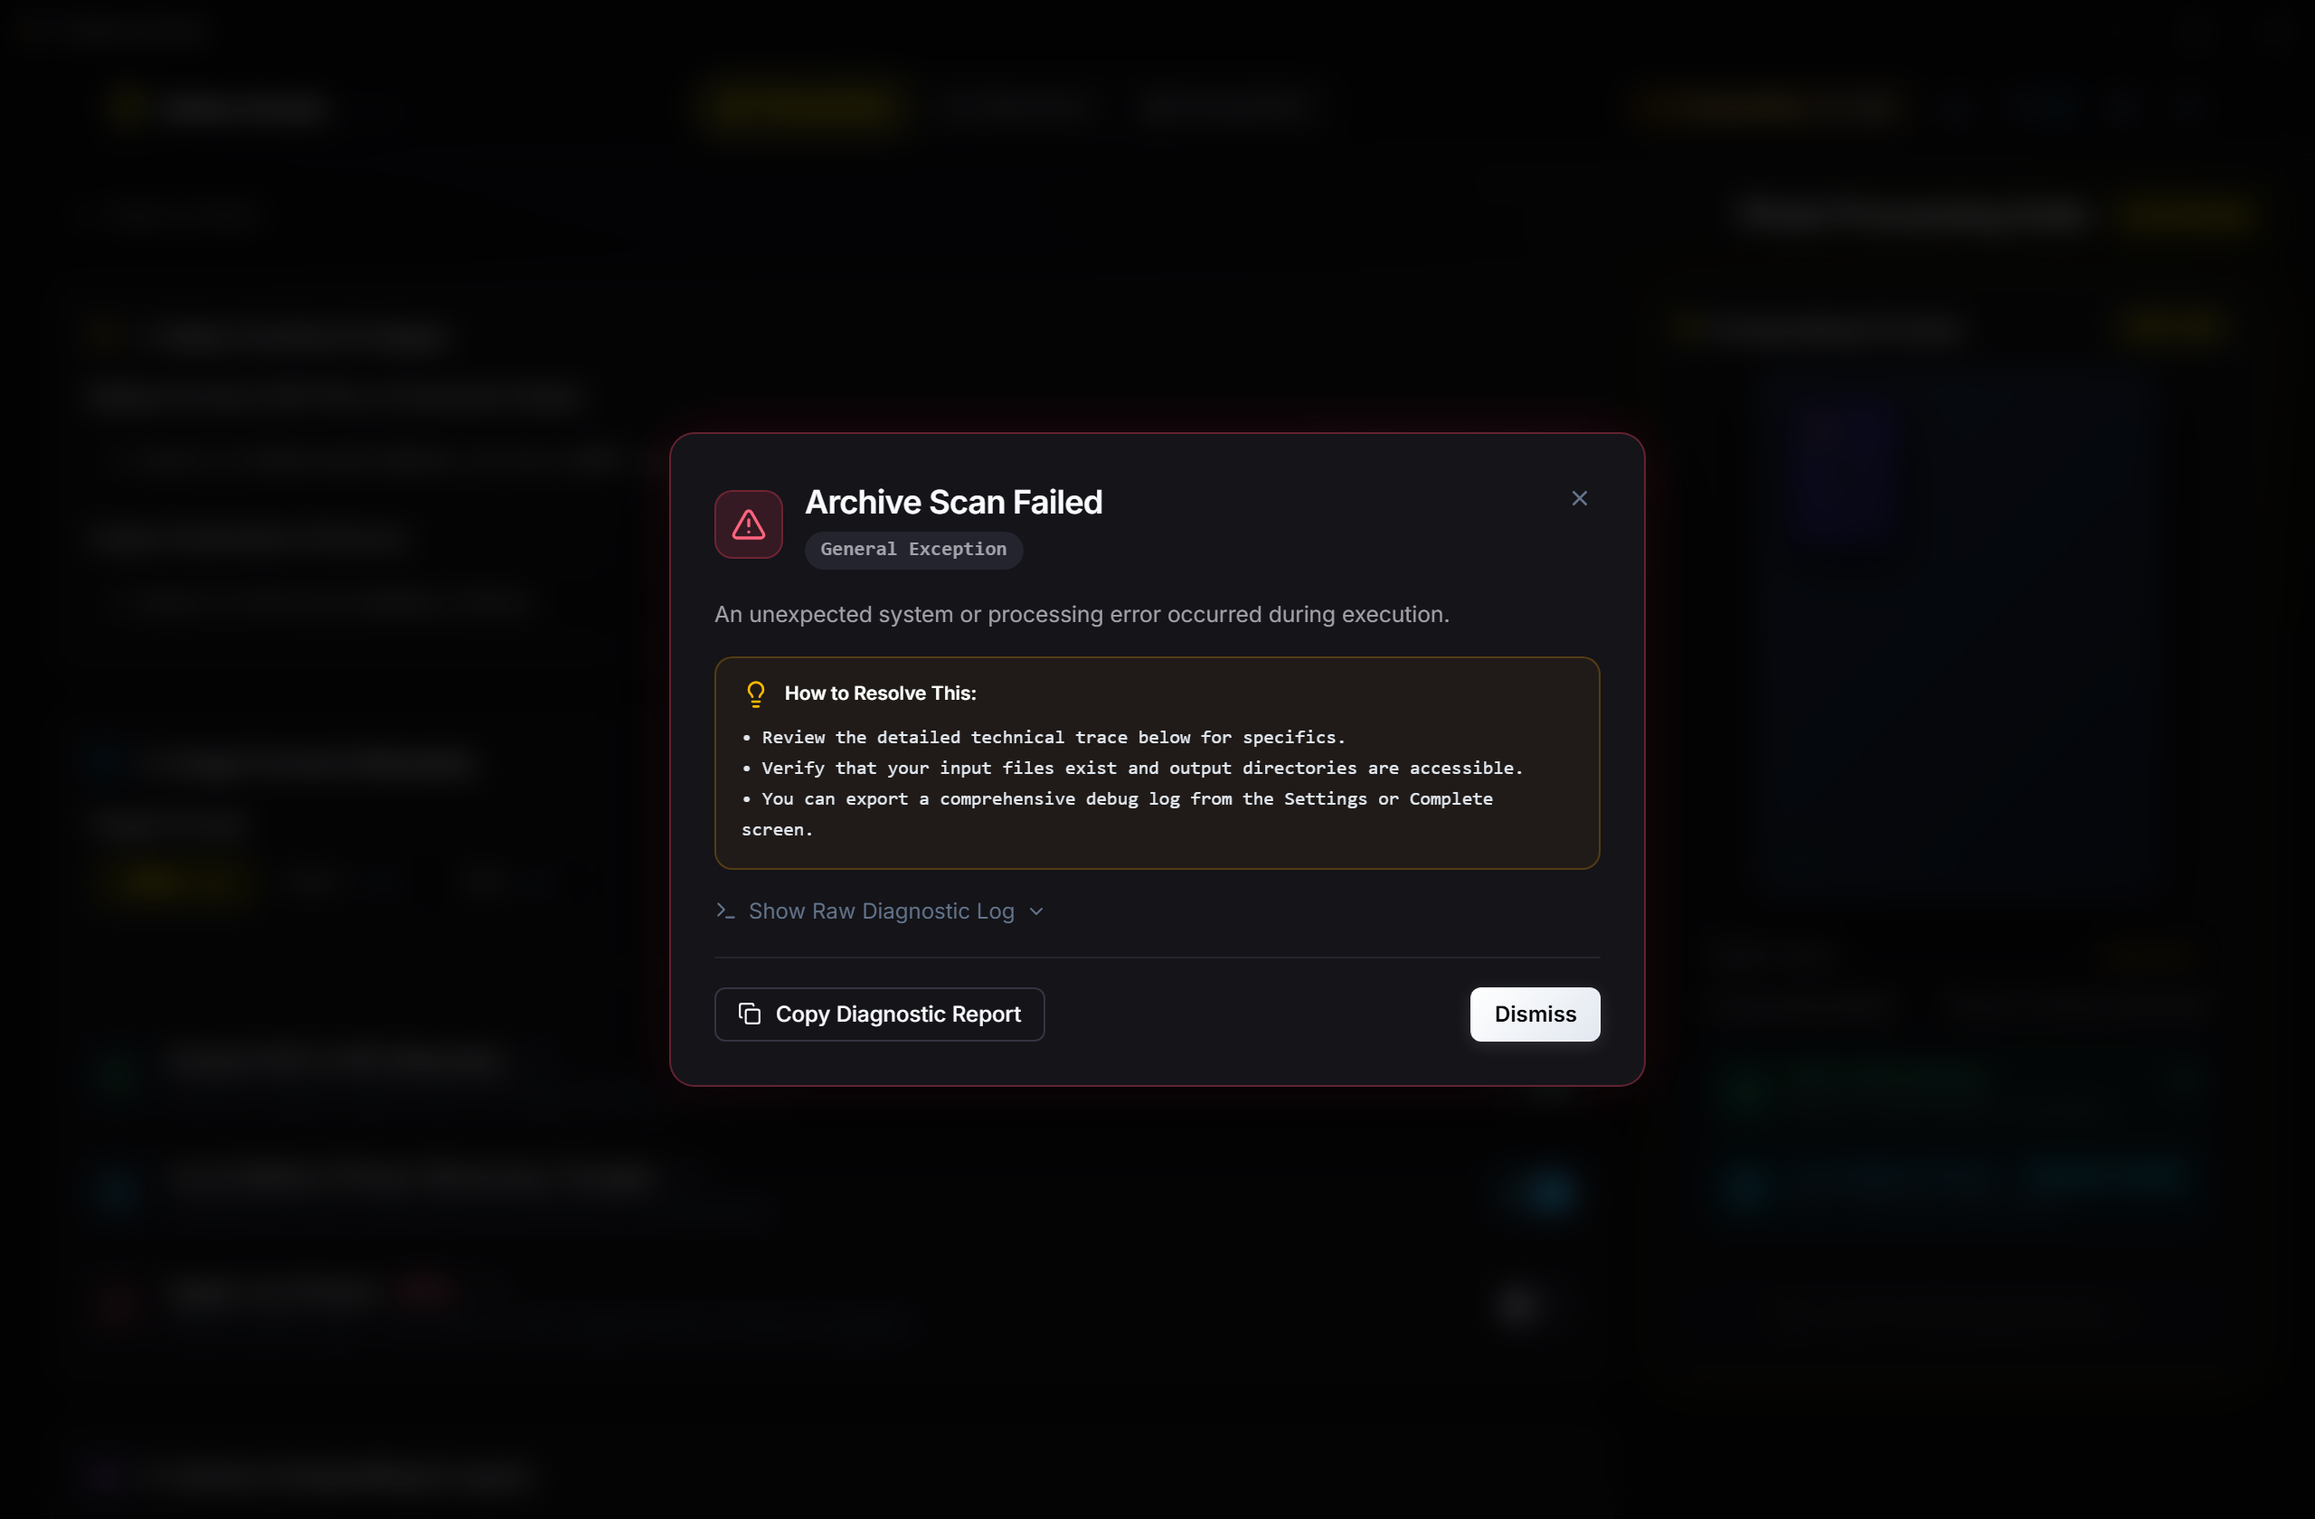
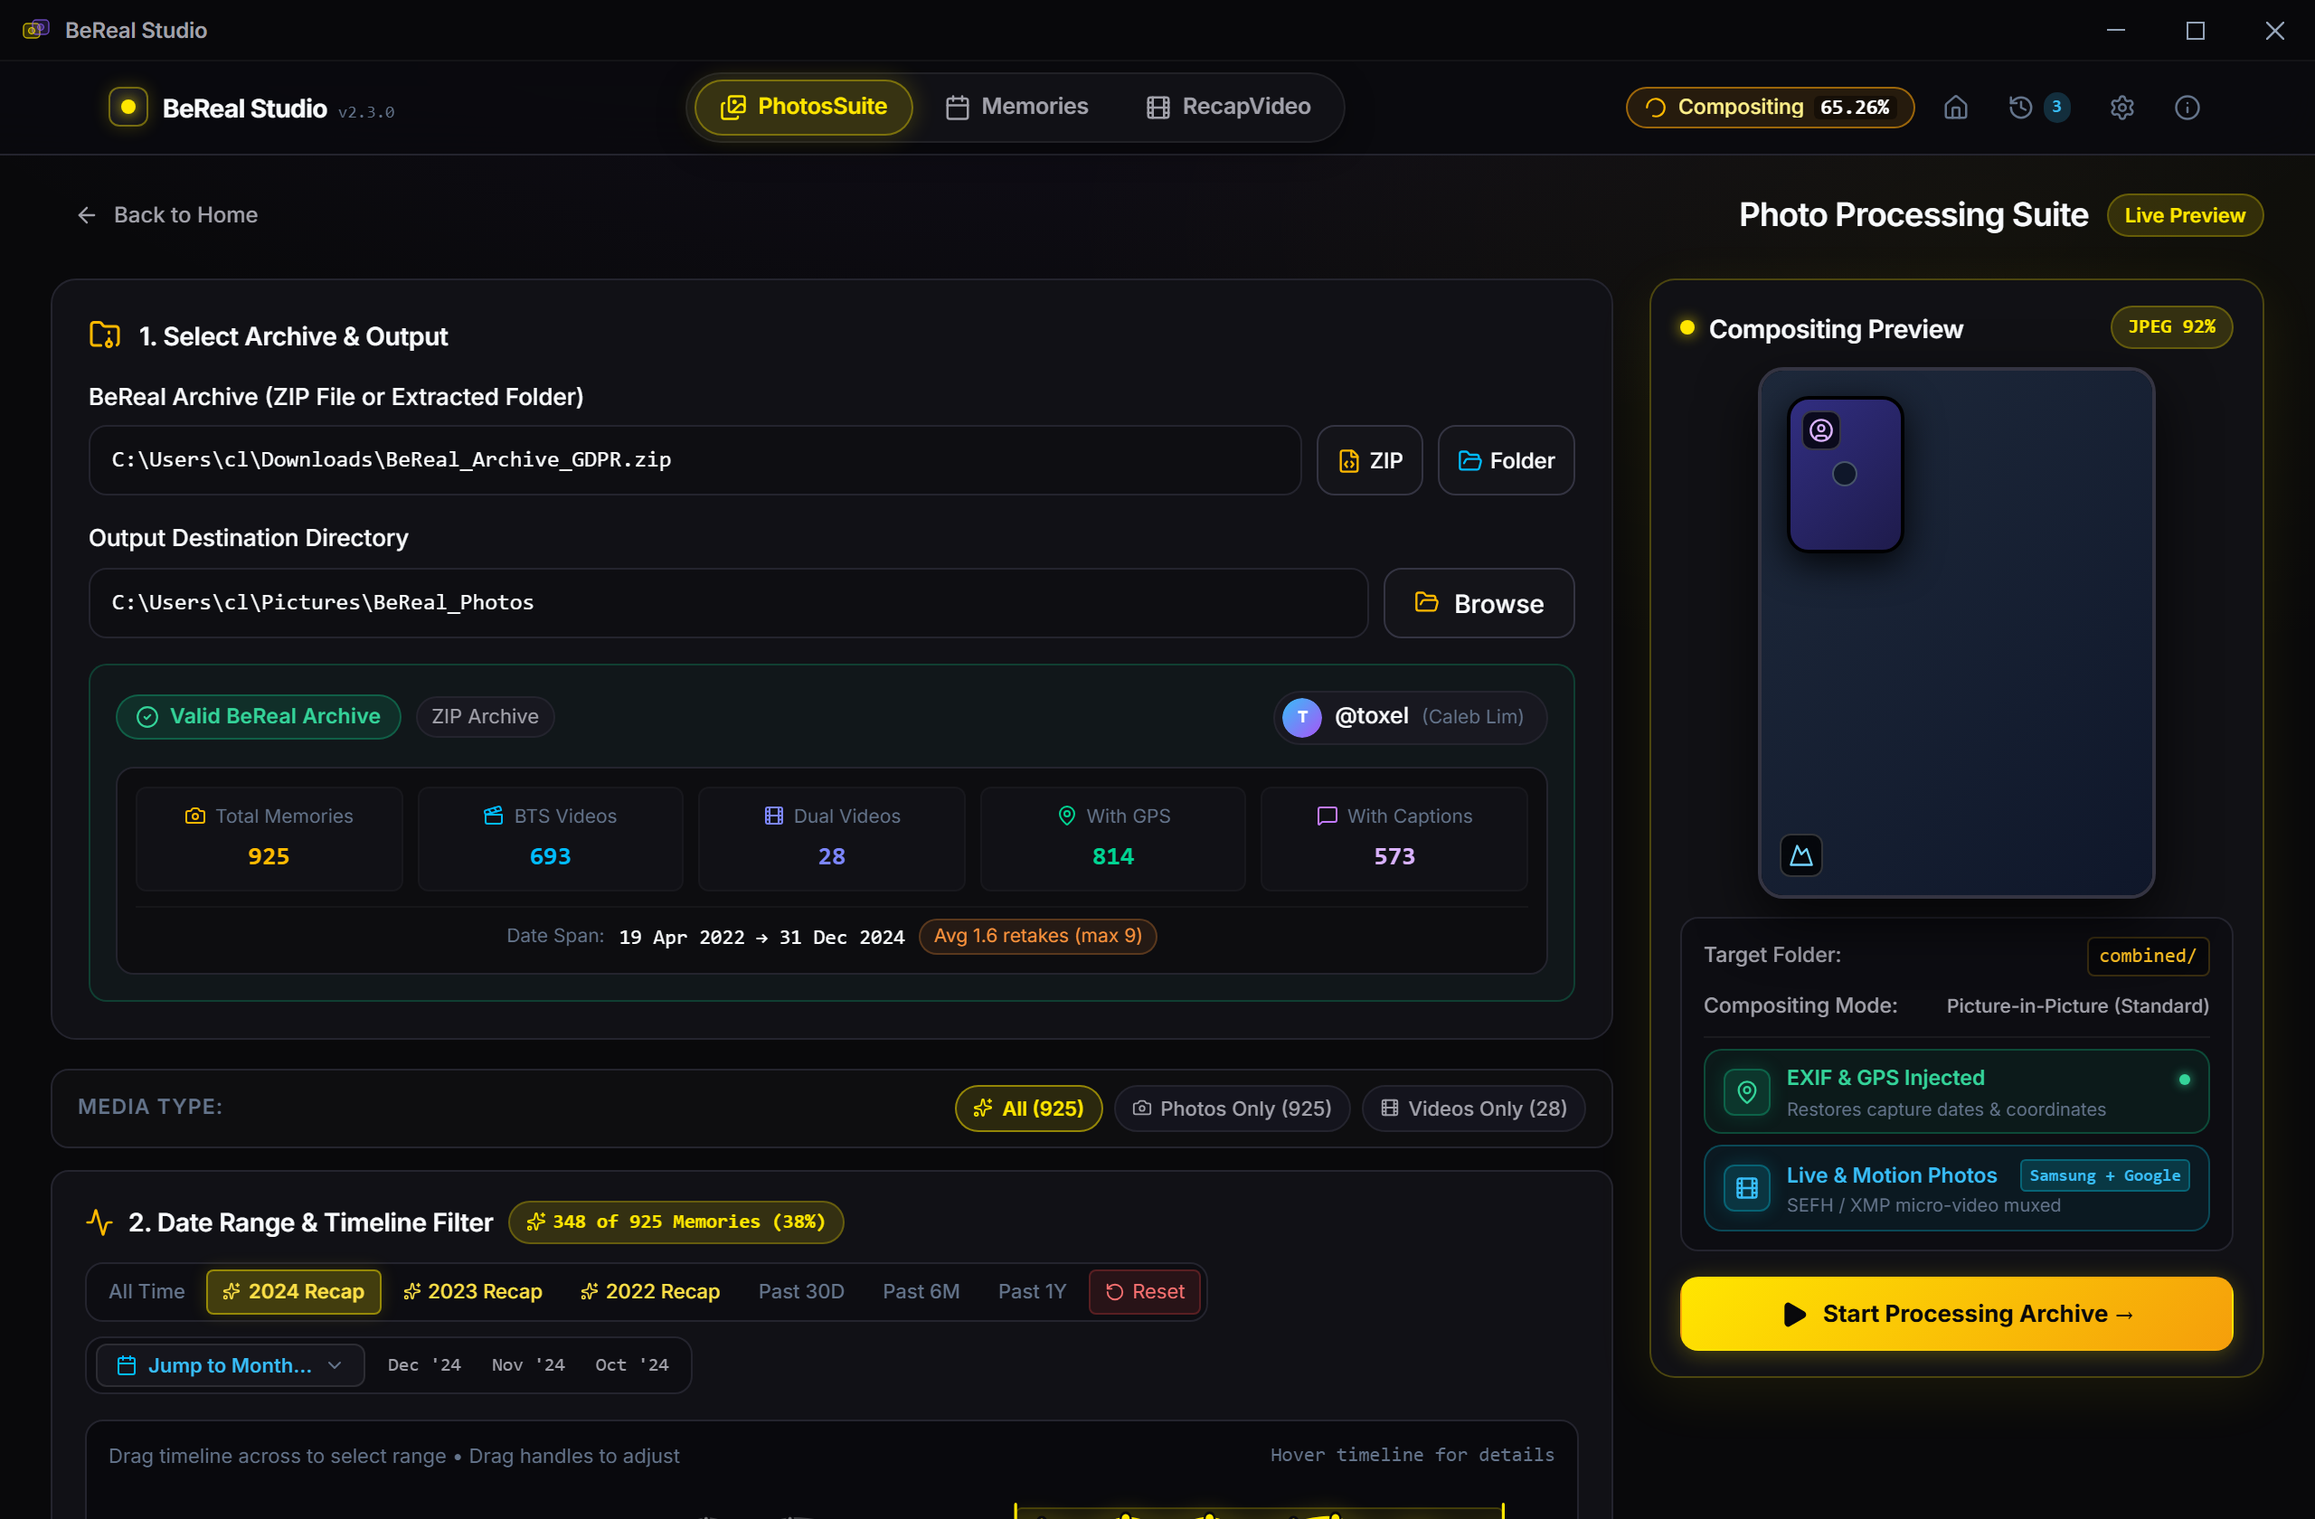
docs(screenshots): fix demo scan error in photo toolkit and organize release notes
- Overview: Fix automated screenshot mock state handling so photo toolkit renders active configuration instead of scan error, and organize release notes into docs/releases/ with root CHANGELOG.md.
- Documentation:
  - Structured release notes under docs/releases/ (v2.3.0.md, v2.0.0.md) and created root CHANGELOG.md.
  - Updated .github/workflows/release.yml to locate release notes in docs/releases/.
  - Re-captured clean, high-DPI screenshots without any error states.

diff --git a/scripts/capture_screenshots.js b/scripts/capture_screenshots.js
@@ -9,6 +9,7 @@
 import fs from 'fs';
 import path from 'path';
 import { fileURLToPath } from 'url';
+import { spawn } from 'child_process';
 import puppeteer from 'puppeteer-core';
 
 const __dirname = path.dirname(fileURLToPath(import.meta.url));
@@ -41,11 +42,44 @@ function findBrowserBinary() {
   return 'msedge';
 }
 
+async function isServerRunning(url) {
+  try {
+    const res = await fetch(url, { method: 'GET' });
+    return res.status === 200 || res.status === 304;
+  } catch {
+    return false;
+  }
+}
+
 async function main() {
   console.log('\n📸 [BeReal Studio] Launching Automated Screenshot Capture Suite...\n');
 
   if (!fs.existsSync(SCREENSHOT_DIR)) {
     fs.mkdirSync(SCREENSHOT_DIR, { recursive: true });
+  }
+
+  let serverProcess = null;
+  const baseUrl = 'http://localhost:1420';
+
+  if (!(await isServerRunning(baseUrl))) {
+    console.log('⚡ Starting local Vite dev server on port 1420...');
+    const isWindows = process.platform === 'win32';
+    const bunCmd = isWindows ? 'bun.cmd' : 'bun';
+    serverProcess = spawn(bunCmd, ['run', 'dev'], {
+      cwd: ROOT_DIR,
+      stdio: 'pipe',
+      shell: isWindows,
+    });
+
+    let attempts = 0;
+    while (attempts < 30) {
+      await new Promise((r) => setTimeout(r, 1000));
+      attempts++;
+      if (await isServerRunning(baseUrl)) {
+        console.log('✅ Local dev server ready on http://localhost:1420\n');
+        break;
+      }
+    }
   }
 
   const executablePath = findBrowserBinary();
@@ -74,11 +108,11 @@ async function main() {
     console.log(`[${i + 1}/${VIEWS.length}] Capturing ${item.label} (${item.name})...`);
 
     try {
-      await page.goto(targetUrl, { waitUntil: 'networkidle0', timeout: 15000 });
+      await page.goto(targetUrl, { waitUntil: 'networkidle0', timeout: 20000 });
 
       // Wait for app header and view transition to complete
-      await page.waitForSelector('.app-header', { timeout: 5000 });
-      await new Promise((res) => setTimeout(res, 800));
+      await page.waitForSelector('.app-header', { timeout: 8000 });
+      await new Promise((res) => setTimeout(res, 1800));
 
       await page.screenshot({ path: outPath, type: 'png' });
 
@@ -90,6 +124,16 @@ async function main() {
   }
 
   await browser.close();
+
+  if (serverProcess) {
+    console.log('🛑 Shutting down spawned Vite dev server...');
+    if (process.platform === 'win32') {
+      spawn('taskkill', ['/pid', serverProcess.pid.toString(), '/f', '/t']);
+    } else {
+      serverProcess.kill('SIGTERM');
+    }
+  }
+
   console.log(`\n🎉 All ${VIEWS.length} showcase screenshots successfully captured into docs/screenshots/!\n`);
 }
 

diff --git a/src/views/ToolkitConfig.svelte b/src/views/ToolkitConfig.svelte
@@ -20,6 +20,7 @@
     errorActiveJob,
     recordActivity,
   } from '$lib/stores';
+  import { isDemoExplicitlyRequested } from '$lib/devMode';
   import {
     scanArchive,
     startToolkit,
@@ -215,7 +216,11 @@
       activeScanPath = '';
       return;
     }
-    // Skip re-scan if this path was already successfully scanned into memory
+    // Skip re-scan if in demo mode or if already scanned
+    if (isDemoExplicitlyRequested() && $archiveMetadata && $archiveMetadata.isValid && $archiveMetadata.entryCount > 0) {
+      activeScanPath = path;
+      return;
+    }
     if (!force && path === activeScanPath && $archiveMetadata && $archiveMetadata.isValid && $archiveMetadata.entryCount > 0) {
       return;
     }
@@ -243,13 +248,17 @@
   }
 
   onMount(() => {
+    if (isDemoExplicitlyRequested()) {
+      if ($toolkitConfig.inputPath) activeScanPath = $toolkitConfig.inputPath;
+      return;
+    }
     if ($toolkitConfig.inputPath) {
       handleArchiveChange($toolkitConfig.inputPath);
     }
   });
 
   let prevInputPath = '';
-  $: if ($toolkitConfig.inputPath !== prevInputPath || (!$archiveMetadata && $toolkitConfig.inputPath)) {
+  $: if (!isDemoExplicitlyRequested() && ($toolkitConfig.inputPath !== prevInputPath || (!$archiveMetadata && $toolkitConfig.inputPath))) {
     prevInputPath = $toolkitConfig.inputPath;
     if (debounceTimer) clearTimeout(debounceTimer);
     if (!$toolkitConfig.inputPath || $toolkitConfig.inputPath.trim().length === 0) {

diff --git a/src/lib/devMode.ts b/src/lib/devMode.ts
@@ -10,7 +10,7 @@ import {
   defaultToolkitConfig,
   defaultRecapperConfig,
 } from './stores';
-import { explorerData, calendarCurrentMonth } from './memoriesStore';
+import { explorerData, calendarCurrentMonth, memoriesLoadError, isLoadingMemories } from './memoriesStore';
 import type { ArchiveInfo, MonthCount, ActiveJob, ActivityRecord, ExplorerMemory } from './types';
 
 export const isDev = import.meta.env.DEV;
@@ -354,6 +354,8 @@ export function loadDemoExplorer() {
     },
   ];
 
+  memoriesLoadError.set(null);
+  isLoadingMemories.set(false);
   explorerData.set({
     memories: demoMemories,
     totalCount: demoMemories.length,

diff --git a/src/views/MemoriesView.svelte b/src/views/MemoriesView.svelte
@@ -24,10 +24,14 @@
   import RefreshCw from 'lucide-svelte/icons/refresh-cw';
   import Sparkles from 'lucide-svelte/icons/sparkles';
   import Loader2 from 'lucide-svelte/icons/loader-circle';
+  import { isDemoExplicitlyRequested } from '$lib/devMode';
 
   let selectedPathInput = $lastScannedArchivePath || '';
 
   onMount(() => {
+    if (isDemoExplicitlyRequested()) {
+      return;
+    }
     // Auto-load if we have an archive path and haven't loaded yet
     if ($lastScannedArchivePath && !$explorerData && !$isLoadingMemories) {
       loadMemories($lastScannedArchivePath);

diff --git a/docs/releases/v2.0.0.md b/docs/releases/v2.0.0.md
@@ -1,0 +1,75 @@
+# 🚀 BeReal Studio v2.0.0 — The Memories Explorer Release
+
+**BeReal Studio v2.0.0** is a major milestone release that introduces the **Native BeReal Memories & Calendar Explorer**, bringing the authentic, fluid mobile BeReal browsing and post exploration experience directly to your desktop alongside the Photo Toolkit and Music Recapper.
+
+---
+
+## 🌟 Key Highlights
+
+```
+┌────────────────────────────────────────────────────────────────────────────────────────┐
+│  📸 Native BeReal Memories Grid & Calendar Explorer with Mobile-Authentic UI           │
+│  📱 Continuous Vertical Infinite-Scroll Feed with Sticky Header & Auto-Jump            │
+│  🤳 Interactive Dual-Camera Frame, Click-to-Swap, Movable PIP & Corner Snap Hotspots   │
+│  🔍 Instant Multi-Dimensional Filtering (Location, BTS Clips, Captions, Retakes)       │
+│  ⚡ Sub-10ms Rayon Multi-Core Processing & Offline Spatial Reverse Geocoder Index      │
+└────────────────────────────────────────────────────────────────────────────────────────┘
+```
+
+---
+
+## 📋 Comprehensive Changelog & Feature Breakdown
+
+### 📸 1. Native Memories & Calendar Explorer
+- **Mobile-Identical Dark UI**: An immersive experience matching the authentic BeReal app design.
+- **Segmented View Switcher**: Fluid toggle between `[ Memories ]` and `[ Calendar ]`.
+- **Memories Grid**: Responsive multi-column card grid with day overlays (`19`, `20`, `Today`), retake badges `(2)`, and hover elevations.
+- **Monthly Calendar Matrix**: 7-column calendar (Mon–Sun) with month navigation (`<` / `>`) and active memory photo cells.
+- **Persistent Directory Memory**: Remembers and auto-loads your previously scanned GDPR archives across app launches.
+
+### 📱 2. Continuous Vertical Infinite-Scroll Feed
+- **Authentic Feed View**: Clicking any memory card seamlessly opens a continuous, smooth vertical scroll feed of your entire archive.
+- **Instant Auto-Scroll**: Jumps directly to the tapped post while allowing uninterrupted scrolling up and down through earlier and newer memories.
+- **Dynamic Sticky Top Bar**: Tracks and displays the active visible memory date and post count (e.g. `18 August 2024 • 14 of 420`) as you scroll.
+- **Detailed Metadata**: Displays user avatar, username (`toxel`), full name, post time, relative date, late status, retakes, and captions.
+
+### 🤳 3. Interactive Dual-Camera Frame & Movable PIP
+- **Click-to-Swap**: Clicking the selfie inset instantly swaps perspective between front and back cameras with animated transitions.
+- **Movable / Draggable PIP**: Click and drag the selfie picture-in-picture box anywhere on the photo frame with bounds protection.
+- **4-Corner Snap Hotspots**: Instant corner snap controls to cycle between `Top-Left`, `Top-Right`, `Bottom-Right`, and `Bottom-Left`.
+- **Integrated BTS Micro-Video Player**: Plays live BTS micro-videos inline when present in the archive.
+
+### 🔍 4. Multi-Dimensional Search & Filtering
+- **Live Instant Search**: Search captions, dates, and reverse-geocoded cities/countries.
+- **Quick Filter Chips**:
+  - `📍 Location` (Posts with GPS tags)
+  - `🎬 BTS Clips` (Posts with live BTS video clips)
+  - `💬 Captions` (Posts with text captions)
+  - `🔄 Retakes Only` (Posts with retakes > 0)
+- **Advanced Drawers**: Instant dropdown filtering by Year, Month, City, and Country.
+
+### 💾 5. Contextual Actions & Single-Memory Exports
+- **Three-Dot Action Menu**:
+  - 📁 *Reveal in File Explorer*: Opens the raw image on disk.
+  - 🖼 *Save Combined Photo (PIP)*: Exports a high-res Picture-in-Picture composite.
+  - ↔ *Save Side-by-Side Photo*: Exports a high-res side-by-side composite.
+  - 📷 *Save Main Camera Only* / 🤳 *Save Selfie Camera Only*.
+  - 📋 *Copy Details*: Quick actions to copy caption, formatted timestamp, or GPS coordinates.
+
+### ⚡ 6. High-Performance Parallel Engine
+- **Rayon Multi-Core Processing**: Parses, formats, and reverse-geocodes 1,000+ posts in under **10 milliseconds**.
+- **O(1) Media File Indexing**: Instant filename mapping supporting all BeReal GDPR folder variations (`Photos/.../post/`, `/Photos/.../bereal/`, flat folders).
+- **Offline Spatial Reverse Geocoder**: In-memory GeoNames spatial index for instant, offline city/country resolution with zero network pauses.
+- **Tauri v2 Asset Protocol & Base64 Fallback**: 100% reliable image and video rendering across all operating systems.
+
+---
+
+## 📦 Downloads & Platform Installers
+
+| Platform | Format / File | Architecture | Description |
+| :--- | :--- | :--- | :--- |
+| **Windows** | `.msi` | x64 | Windows Installer Package |
+| **Windows** | `.exe` | x64 | NSIS Standalone Setup |
+| **macOS** | `.dmg` | Universal | Apple Silicon (M1/M2/M3/M4) & Intel (x86_64) |
+| **Linux** | `.AppImage` | x64 | Standalone Universal Linux Binary |
+| **Linux** | `.deb` | x64 | Debian / Ubuntu Package |

diff --git a/CHANGELOG.md b/CHANGELOG.md
@@ -1,0 +1,32 @@
+# 📜 BeReal Studio — Changelog & Release Archive
+
+All notable changes to **BeReal Studio** are documented here. Releases adhere to [Semantic Versioning](https://semver.org/).
+
+---
+
+## 🚀 Releases & Version History
+
+- **[v2.3.0](docs/releases/v2.3.0.md)** — The Ultimate Memories & Video Experience *(26 August 2024)*
+- **[v2.2.0](docs/releases/v2.2.0.md)** — Performance & UI Polish *(August 2024)*
+- **[v2.1.0](docs/releases/v2.1.0.md)** — Stability & Export Presets *(August 2024)*
+- **[v2.0.0](docs/releases/v2.0.0.md)** — The Memories Explorer Release *(August 2024)*
+- **[v1.0.0](docs/releases/v1.0.0.md)** — Initial Unified Desktop Release *(August 2024)*
+
+---
+
+### [v2.3.0](docs/releases/v2.3.0.md) — 2024-08-26
+#### 🌟 Highlights
+- **Video BeReal Playback & Dual-Angle Exports**: Side-by-Side & Picture-in-Picture `.mp4` video rendering with synchronized audio.
+- **1:1 Fluid Zoom & Pan**: High-DPI 300% zoom with responsive pointer drag and unobtrusive floating controls.
+- **Partitioned 1-Click Fast Downloads**: Independent smart defaults and settings storage for Photos, Videos, and BTS micro-clips.
+- **Interactive Timeline & Caption Indicators**: Zero-overhead 4px cyan dot caption badges and quick calendar jump.
+- **GPLv3 Licensing**: Switched to GNU General Public License v3.0-or-later for user software freedom.
+
+---
+
+### [v2.0.0](docs/releases/v2.0.0.md) — 2024-08-20
+#### 🌟 Highlights
+- **Native Memories & Calendar Explorer**: Dark-mode BeReal browsing with multi-column grid and 7-column calendar matrix.
+- **Continuous Vertical Infinite-Scroll Feed**: Smooth feed with sticky header and auto-scroll jump.
+- **Interactive Dual-Camera Frame**: Inset swapping, draggable PIP, and 4-corner snap hotspots.
+- **Rayon Multi-Core Architecture**: Sub-10ms archive parsing and offline spatial reverse geocoding.
